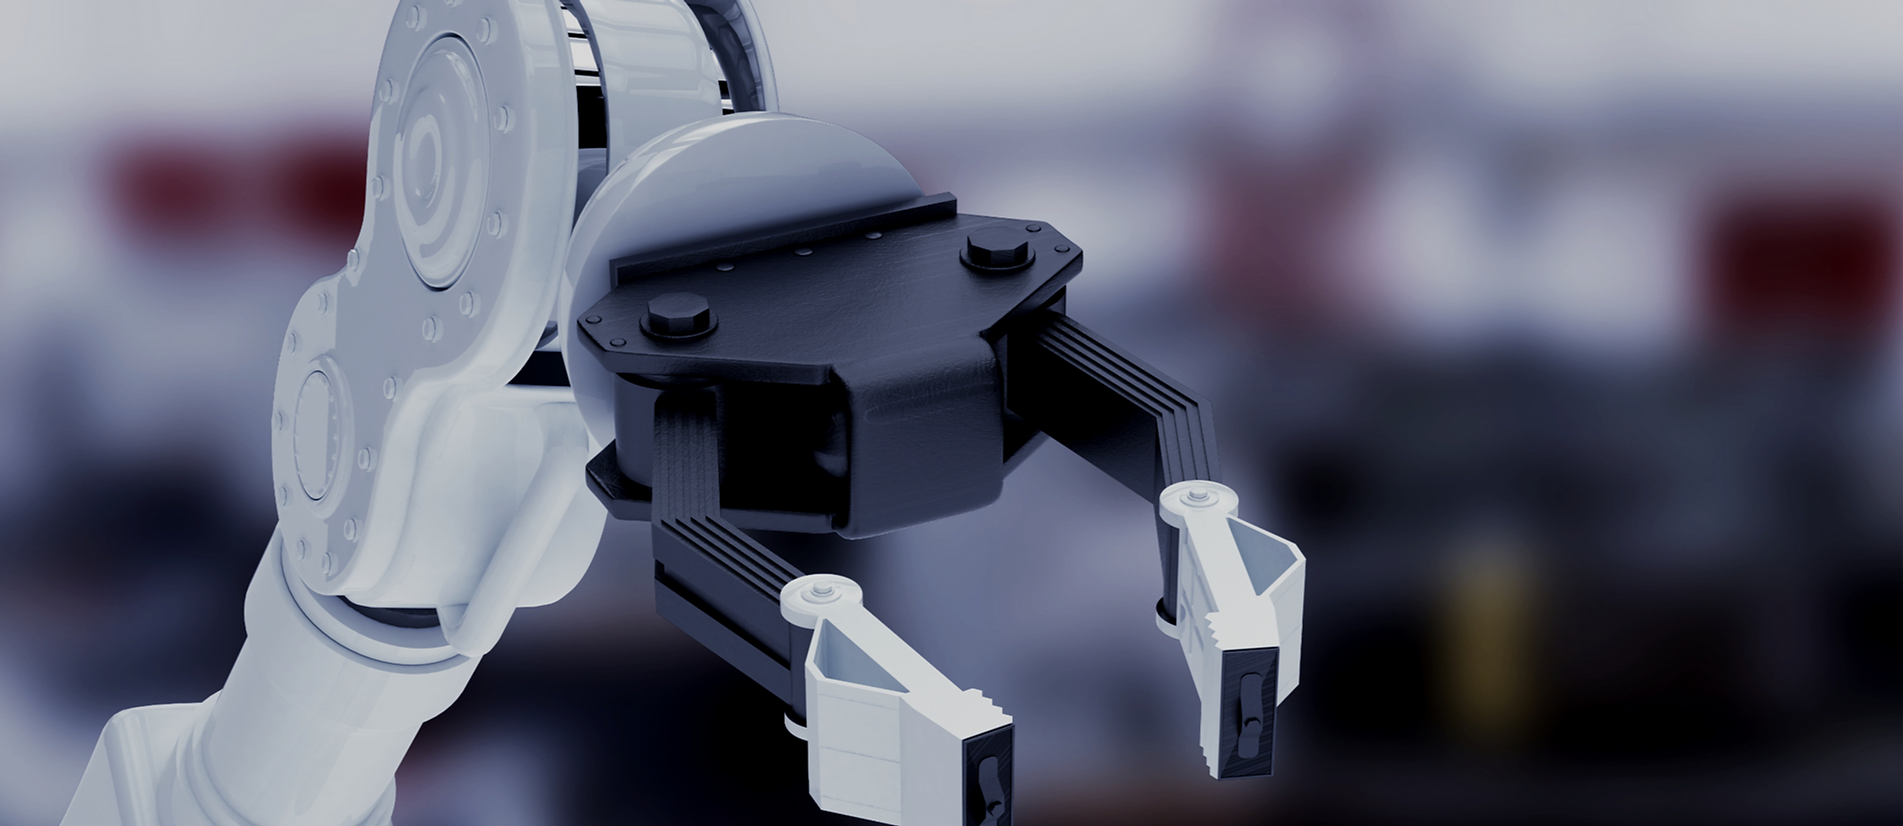
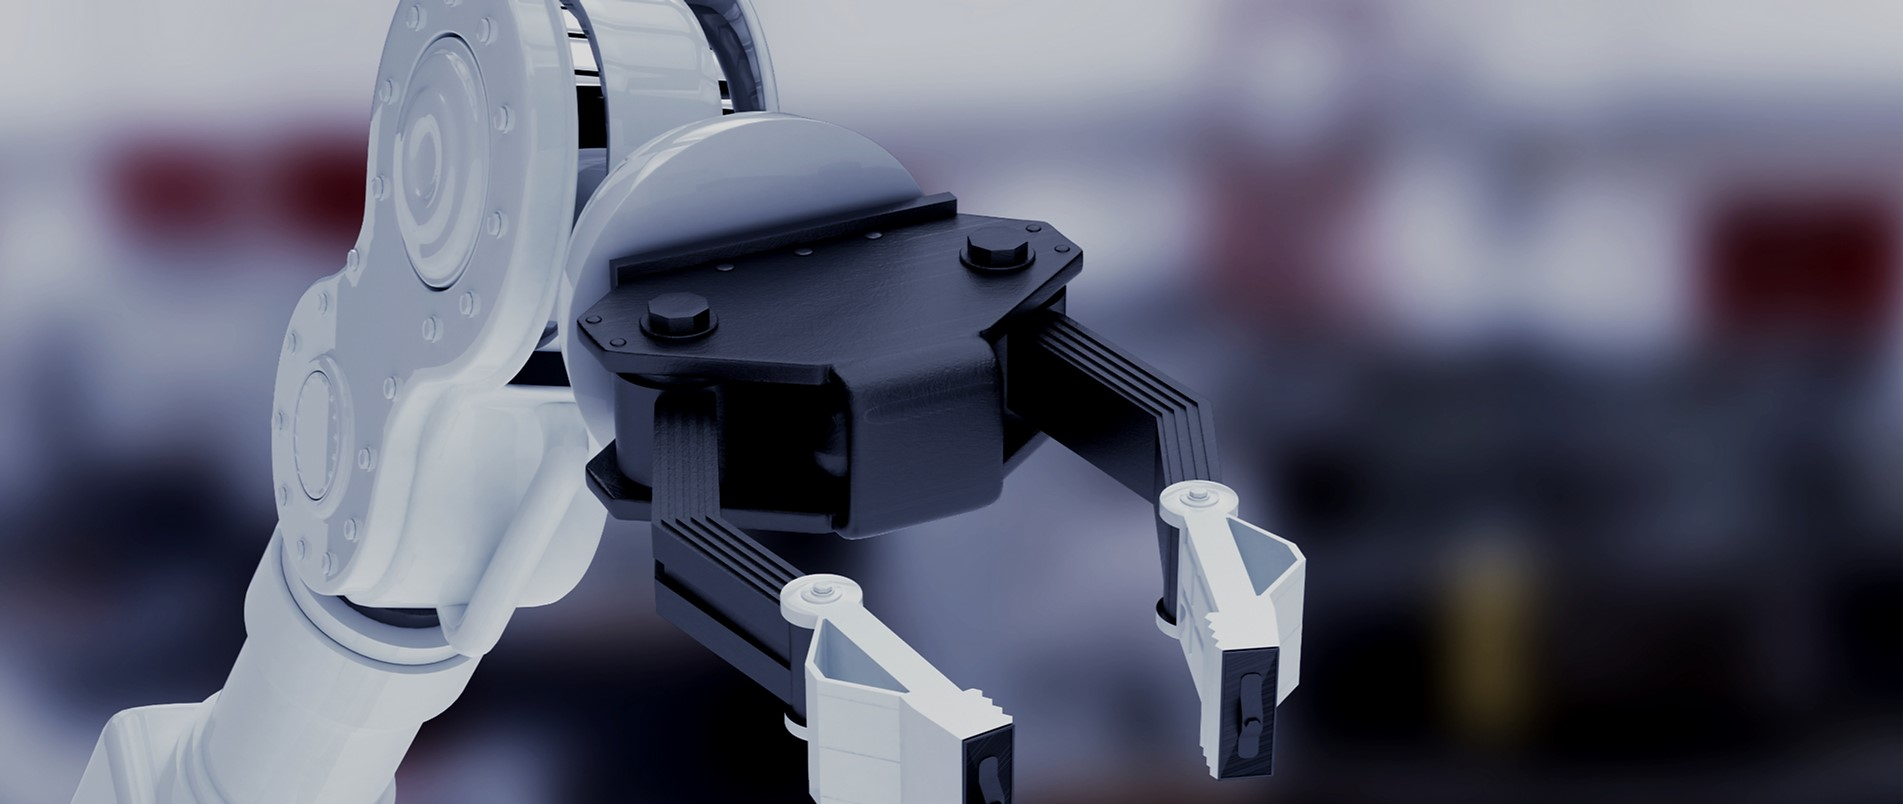
Cleaned up
Cropped the background image, cleaned up a few other background aspects.

diff --git a/Website/website/home-page.html b/Website/website/home-page.html
@@ -74,7 +74,7 @@
     </div>
 
     <footer>
-        <div style="display: flex; justify-content: space-between; align-items: center; background-color: #b4bbc1; padding: 10px;">
+        <div style="display: flex; justify-content: space-between; align-items: center; padding: 10px;">
             <div>
                 <img src="assets/IndependenceRoboticsLogo.jpg">
                 <a style="text-decoration:none; padding:10px" href="https://www.instagram.com/independenceroboticsinc/">
@@ -85,7 +85,7 @@
                 </a>
             </div>
             <div style="text-align: right;">
-                <p style="color: white;">@2024 Independence Robotics. All rights reserved</p>
+                <p style="color: #051c5a;">@2024 Independence Robotics. All rights reserved</p>
             </div>
         </div>
     </footer>

diff --git a/Website/website/style.css b/Website/website/style.css
@@ -91,9 +91,6 @@ nav ul li a:hover {
 }
 
 /* Footer */
-footer {
-    background-color: #b4bbc1;
-}
 
 /* Showcase Section */
 
@@ -108,7 +105,7 @@ footer {
     padding: 20px;
     text-align: left; /* Center text in each card */
     max-width: 20em;
-    background-color: rgba(211, 211, 211, 0.3); /* Light grey with 80% opacity */
+    background-color: rgba(255, 255, 255, 0.575); /* Light grey with 80% opacity */
     border-radius: 10%;
     margin: 10px;
     transition: transform 0.5s ease; /* Add transition for smooth scaling */
@@ -137,7 +134,7 @@ footer {
     width: 40em;
     width: 100%; 
     height: auto; 
-    box-shadow: 0px 0px 20px #27070c; 
+    box-shadow: 0px 0px 20px #051c5a; 
     border-radius: 5%;
     margin: 150px;
 }
